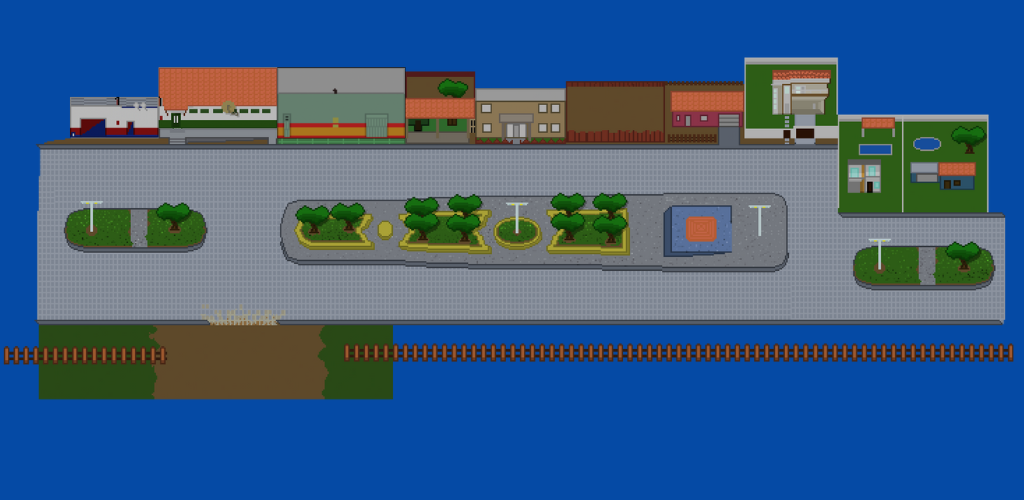
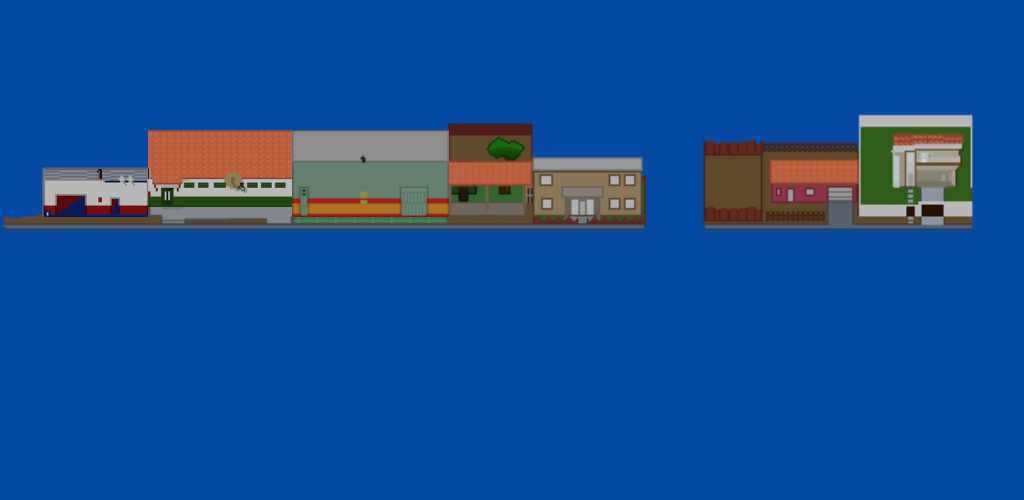
atualização semana

diff --git a/index.html b/index.html
@@ -39,25 +39,28 @@
             </nav>
         </nav>
         <h2>Novidades</h2>
-        <nav id="Novidade" >
-            <nav id="Jogo" class="Item1" onclick="item1()">
-                <a href="LoneWouf.html">
-                    <img  src="imagens/lone wolf/capa jogo Lone Wolf.png" alt="">
-                    <h4>Tarcks</h4>
-                    <p>Nova atualização com correção de bugs, melhora na qualidade gráfica e áudio do jogo.<br><br>  <br><br> </p>
-            </a>
-                
-            </nav>
-            <nav id="Jogo" class="item2" onclick="item2()">
-                <a href="HammerVilage.html">
-                    <img id="item2" src="imagens/hammer village/HAMMER VILLAGE (post).png" alt="">
-                    <h4>HAMMER VILLAGE</h4>
-                    <p>Novo desenvolvimento.
-                        Acompanhe o progresso aqui. <br><br><br><br> <br>
-                    </p>
+        <nav id="Novidade">
+            <div class="container">
+                <nav id="Jogo" class="Item1" onclick="item1()">
+                    <a href="TARCKS.html">
+                        <img  src="imagens/lone wolf/capa jogo Lone Wolf.png" alt="">
+                        <h4>Tarcks</h4>
+                        <p>Nova atualização com correção de bugs, melhora na qualidade gráfica e áudio do jogo.<br><br>  <br><br> </p>
                 </a>
+                    
+                </nav>
                 
-            </nav>
+                <nav id="Jogo" class="item2" onclick="item2()">
+                    <a href="HammerVilage.html">
+                        <img id="item2" src="imagens/hammer village/HAMMER VILLAGE (post).png" alt="">
+                        <h4>HAMMER VILLAGE</h4>
+                        <p>Novo desenvolvimento.
+                            Acompanhe o progresso aqui. <br><br><br><br> <br>
+                        </p>
+                    </a>
+                    
+                </nav>
+            </div>
         </nav>
 
         <nav id="ariaDeDoação">

diff --git a/TARCKS.html b/TARCKS.html
@@ -27,25 +27,13 @@
 
     <h2>Imagens do Tarcks</h2>
     <nav id="informacoes">
-
-        
         <nav id="imgGame">
-            <img src="imagens/lone wolf/Screenshot_2024-04-08-15-46-02-899_com.Guilherme.TARCKS.jpg" alt="">
-        </nav>
-        <nav id="imgGame">
-            <img src="imagens/lone wolf/Screenshot_2024-04-08-15-49-11-227_com.miui.videoplayer.jpg" alt="">
-        </nav>
-        <nav id="imgGame">
-            <img src="imagens/lone wolf/Screenshot_2024-04-08-15-49-20-510_com.miui.videoplayer.jpg" alt="">
-        </nav>
-        <nav id="imgGame">
-            <img src="imagens/lone wolf/Screenshot_2024-04-08-15-49-30-859_com.miui.videoplayer.jpg" alt="">
-        </nav>
-        <nav id="imgGame">
-            <img src="imagens/lone wolf/Screenshot_2024-04-08-15-49-38-068_com.miui.videoplayer.jpg" alt="">
-        </nav>
-        <nav id="imgGame">
-            <img src="imagens/lone wolf/Screenshot_2024-04-08-15-49-47-715_com.miui.videoplayer.jpg" alt="">
+            <img img src="imagens/lone wolf/Screenshot_2024-04-08-15-46-02-899_com.Guilherme.TARCKS.jpg" alt=""class="slider">
+            <img src="imagens/lone wolf/Screenshot_2024-04-08-15-49-11-227_com.miui.videoplayer.jpg" alt=""class="slider">
+            <img src="imagens/lone wolf/Screenshot_2024-04-08-15-49-20-510_com.miui.videoplayer.jpg" alt=""class="slider">
+            <img src="imagens/lone wolf/Screenshot_2024-04-08-15-49-30-859_com.miui.videoplayer.jpg" alt=""class="slider">
+            <img src="imagens/lone wolf/Screenshot_2024-04-08-15-49-38-068_com.miui.videoplayer.jpg" alt="" class="slider">
+            <img src="imagens/lone wolf/Screenshot_2024-04-08-15-49-47-715_com.miui.videoplayer.jpg" alt=""class="slider">
         </nav>
     </nav>
 

diff --git a/HammerVilage.html b/HammerVilage.html
@@ -65,21 +65,23 @@
     <nav class="Novidades">
         <nav id="AtualInforma">
         <p>
-            <img id="cidade" src="imagens/hammer village/cidade martelocity.png" alt="">
+            <img id="image3" src="imagens/hammer village/cidade martelocity.png" alt="">
             <h5>Cidade Martelaria</h5>
-            <P>Cidade onde o player irá fazer muitas das vendas e compras do jogo.</P>
+            <P>A cidade teve uma leve alteração em seu formato, e foi acrescentado uma nova rua no meio dela.</P>
         </p>
 
         <p>
-            <img  src="imagens/hammer village/ferramentas.png" alt="">
-            <h5>Ferramentas</h5>
-            <P>As ferramentas básicas que vamos usar pelo caminho.</P>
+            <img id="imag2" src="imagens/hammer village/plantação chao.png" alt="">
+            <h5>Plantação</h5>
+            <P>Os sprites dos buracos para se plantar, teve uma alteração no tamanho e no design. </P>
         </p>
+<!--
         <p>
-            <img id="cidade" src="imagens/hammer village/alimentos.png" alt="">
+             <img id="image3" src="imagens/hammer village/alimentos.png" alt="">
             <h5>Plantações</h5>
             <P>Aqui temos os principais alimentos que poderão ser plantados e coletados no jogo.</P>
         </p>
+-->
     </nav>
     </nav>
     

diff --git a/style.css b/style.css
@@ -7,6 +7,7 @@
 body{
     background-color: #054AA5;
     font-family: sans-serif;
+
 }
 
 header{
@@ -217,17 +218,24 @@ h5{
     padding-left: 50px;
 }
 
-.Novidades{
-    margin-left: 20%;
-    margin-right: 20%;
+#ariaDeDoação{
+    padding: 30px;
 }
 
-.Novidades img{
+#Jogo{
+    object-fit: cover;
+    height: 50px;
+    width: 500px;
+}
+
+#informacoes{
+    columns: 1;
     width: 80%;
 }
 
-#ariaDeDoação{
-    padding: 30px;
+#imag2
+{
+    width: 20vh;
 }
 
 @media screen and (max-width: 1020px){
@@ -310,7 +318,7 @@ h5{
         color: white;
         border-radius: 10px;
     }
-    #Novidade #Jogo img {
+    #Novidade #Jogo img {  
         width: 100%;
     }
     #Novidade #Jogo p{
@@ -411,7 +419,7 @@ h5{
 
 }
 
-@media screen and (max-width: 500px){
+@media screen and (max-width: 600px){
     header{
         columns: 2;
         background-color: white;
@@ -482,14 +490,6 @@ h5{
     
     #Novidade{
         columns: 1;
-    }
-    #Novidade #Jogo{
-        margin: 30px;
-        background-color: #022047;
-        width: 270px;
-        height: 550px;
-        color: white;
-        border-radius: 10px;
     }
     #Novidade #Jogo img {
         width: 100%;

diff --git a/front.js b/front.js
@@ -17,7 +17,7 @@ function item2(){
 }
 
 function LinckInstagram(){
-    window.open('https://www.instagram.com/mixirica_gui/');
+    window.open('https://www.instagram.com/hammer_village/');
 }
 
 function LinckPlayStory(){
@@ -26,4 +26,9 @@ function LinckPlayStory(){
 
 function LoneWolf(){
     window.open('https://play.google.com/store/apps/details?id=com.Guilherme.TARCKS');
+}
+
+
+function Carrossel()
+{
 }
